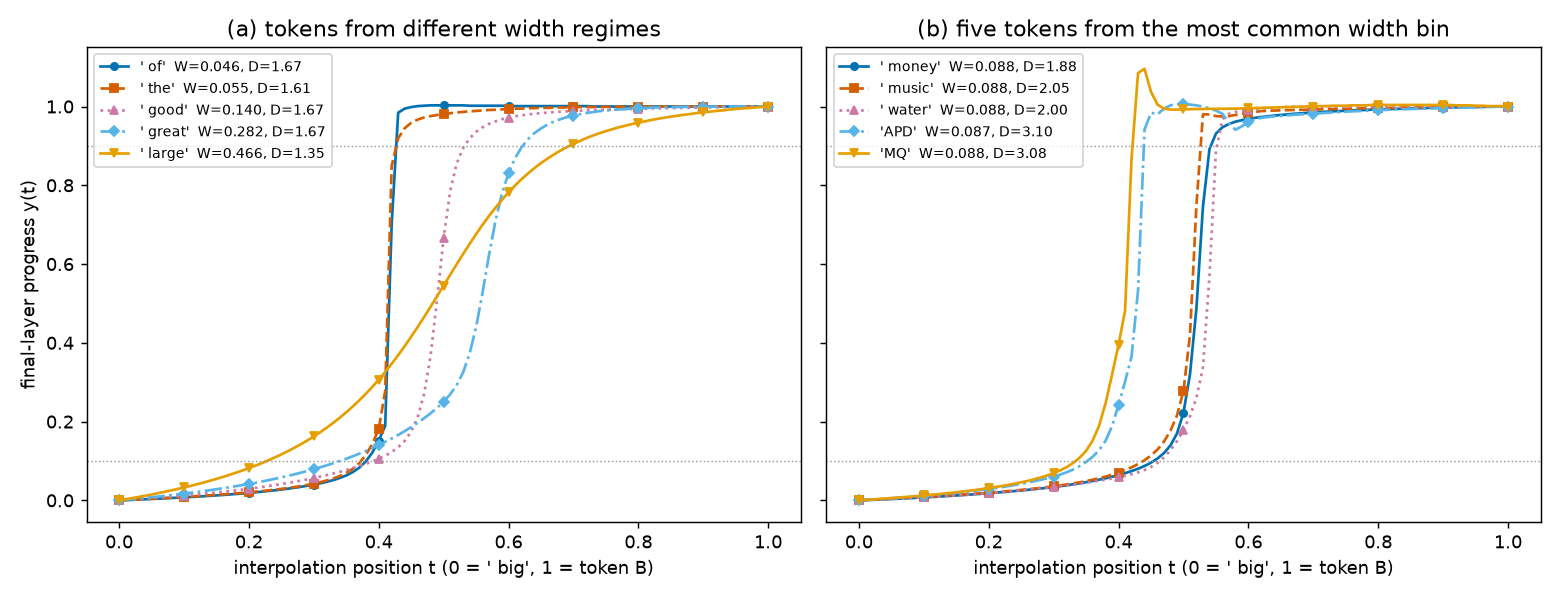
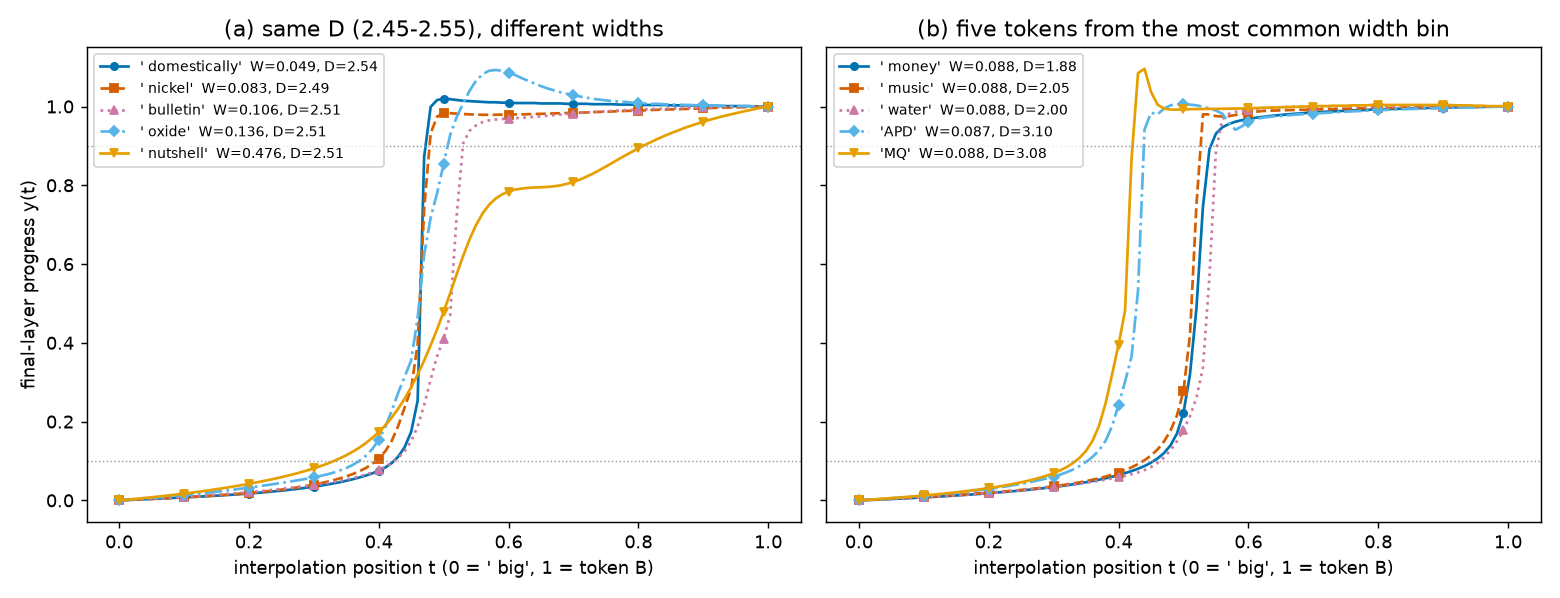
[dir27_interp_dist_vs_plateau_width] autoloop iter 2026-09-23 04:59:52

Changed region(s): [[0.0615, 0.1204, 0.4923, 0.8428], [0.0923, 0.0903, 0.2462, 0.2709], [0.1231, 0.0301, 0.4308, 0.0602]]

diff --git a/dir27_interp_dist_vs_plateau_width/experiments/s5_curves.py b/dir27_interp_dist_vs_plateau_width/experiments/s5_curves.py
@@ -22,8 +22,9 @@ def main():
     D = np.concatenate([s["D"] for s in sh])
     pos = {tok.decode([int(i)]): k for k, i in enumerate(ids)}
 
-    # (a) one common word per width regime; (b) five tokens from the modal histogram bin
-    regime = [" of", " the", " good", " great", " large"]
+    # (a) five words with D in [2.45, 2.55] (vocabulary median D = 2.51) nearest the min, 25th, 50th, 75th
+    # percentile and max of W_final within that band; (b) five tokens from the modal histogram bin
+    regime = [" domestically", " nickel", " bulletin", " oxide", " nutshell"]
     hist, edges = np.histogram(Wf, bins=200)
     b = hist.argmax()
     lo, hi = edges[b], edges[b + 1]
@@ -36,7 +37,7 @@ def main():
     print(f"modal bin [{lo:.4f},{hi:.4f}) n={hist[b]}; modal examples {modal}")
 
     fig, axes = plt.subplots(1, 2, figsize=(12, 4.6), sharey=True)
-    for ax, words, title in ((axes[0], regime, "(a) tokens from different width regimes"),
+    for ax, words, title in ((axes[0], regime, "(a) same D (2.45-2.55), different widths"),
                              (axes[1], modal, "(b) five tokens from the most common width bin")):
         for j, w in enumerate(words):
             k = pos[w]
@@ -55,5 +56,17 @@ def main():
     plt.close(fig)
 
 
+def ge_large():
+    """All tokens whose final-layer width is at least that of B = ' large'."""
+    import pandas as pd
+    d = pd.read_csv(os.path.join(RESULTS, "sweep.csv"), keep_default_na=False)
+    w_large = d.loc[d.token == repr(" large"), "W_final"].item()
+    out = d[d.W_final >= w_large].sort_values("W_final", ascending=False)
+    out = out[["token_id", "token", "D", "W_mid", "W_final", "flag_nonmonotonic"]]
+    out.to_csv(os.path.join(RESULTS, "tokens_W_final_ge_large.csv"), index=False)
+    print(f"W_final(' large')={w_large}; {len(out)} tokens (incl. ' large') with W_final >= it")
+
+
 if __name__ == "__main__":
     main()
+    ge_large()

diff --git a/dir27_interp_dist_vs_plateau_width/REPORT.md b/dir27_interp_dist_vs_plateau_width/REPORT.md
@@ -15,10 +15,11 @@ those shapes would say little about how the model processes the tokens.
 
 **Answer.** We tested all 50,256 other tokens.
 - **Distance.** Input distance does not visibly predict switch width for 97% of tokens (Figure 1).
-  Five common words at nearly the same distance range from an almost vertical jump to a slow ramp
-  (Figure 4a).
-- **Where the widest switches are.** They occur mainly for size words such as ` huge`, ` giant` and
-  ` large`, and for rarely seen, oddly formed tokens.
+  Five words at the typical distance (D 2.49–2.54, around the vocabulary median 2.51) range from an
+  almost vertical jump to a slow ramp (Figure 4a).
+- **Where the widest switches are.** 52 tokens switch at least as slowly as ` big` → ` large` at
+  the final layer. They are mainly size words such as ` huge`, ` giant` and ` vast`, and rarely
+  seen, oddly formed tokens.
 - **Depth.** The final layer switches more sharply than the middle layer for 97.7% of tokens.
 - **Groups.** Final-layer widths form one broad peak with a long tail (Figure 3). The one tight
   group is 64 rarely seen tokens (byte-level characters and scraped fragments such as
@@ -119,14 +120,24 @@ fixed D stays much larger than any change across D.
   with D > 4.
 - At a fixed D, widths spread over most of the range.
 
-Figure 4a shows that spread with five common words. Their D lies between 1.35 and 1.67, yet W_final
-runs from 0.046 (` of`) to 0.466 (` large`).
+Figure 4a shows that spread at the typical distance. Among the 8,307 tokens with D in 2.45–2.55, we
+took the words closest to the minimum, 25th, 50th and 75th percentile, and maximum of W_final in that
+band. All five have D between 2.49 and 2.54, yet W_final runs from 0.049 (` domestically`) to 0.476
+(` nutshell`). Within this band the middle half of widths lies between 0.083 and 0.136.
 
 The widest switches are not the farthest tokens. The 100 widest final-layer tokens have median D 2.43,
 slightly below the vocabulary median of 2.51. They are mostly size words (` huge` has the smallest D of
 any token, 1.22, and W_final 0.56) and rarely seen, oddly formed tokens such as ` guiName` and
 `Downloadha` (RESULTS.md, S4). This is an observation from one prompt; we did not test why these
 tokens switch slowly.
+
+We also listed every token whose final-layer width is at least that of B = ` large` (W_final 0.466):
+52 other tokens, 0.1% of the vocabulary (full list in `results/tokens_W_final_ge_large.csv`). By our
+reading, 27 are size or amount words (` whopping`, ` HUGE`, ` giant`, ` tremendous`, ` huge`,
+` enormous`, ` vast`, ` substantial`, …), 21 are code-like or scraped strings (` guiName`,
+`Downloadha`, `SourceFile`, `TPPStreamerBot`, …), and 4 are other words (` nutshell`, ` manageable`,
+` solvent`, ` abound`). Their D spans 1.22–3.17, covering most of the vocabulary's range, so a wide
+switch does not require a particular distance (RESULTS.md, S4).
 
 ### Finding 2 — The final layer switches more sharply than the middle layer
 
@@ -167,10 +178,13 @@ To check that W reflects visibly different curve shapes, we plot some final-laye
 
 **Figure 4.** Final-layer progress y(t). x: interpolation position t (0 = ` big`, 1 = token B); y:
 y(t). Dotted lines mark 0.1 and 0.9; line style and marker identify each token, and the legend gives
-its W_final and D. (a) Five common words with similar D but very different widths. (b) Five tokens
+its W_final and D. (a) Five words with D in 2.45–2.55 (vocabulary median 2.51), chosen nearest the minimum, quartiles
+and maximum of W_final within that band. (b) Five tokens
 from the most common histogram bin (W_final 0.087–0.090).
 
-In panel (a), small W is a near-vertical jump (` of`, ` the`) and large W is a slow ramp (` large`).
+In panel (a), small W is a near-vertical jump (` domestically`, ` nickel`) and large W is a slow ramp
+with an intermediate shoulder (` nutshell`). Most tokens in the band look like the middle three
+curves.
 In panel (b), tokens with the same W have the same steep shape but switch at different points, from
 about t = 0.40 to 0.53. `MQ` briefly overshoots y = 1 and is one of the flagged curves.
 

diff --git a/dir27_interp_dist_vs_plateau_width/RESULTS.md b/dir27_interp_dist_vs_plateau_width/RESULTS.md
@@ -104,17 +104,38 @@ The 40 widest tokens mix two kinds:
 
 The median D of the 100 widest tokens is 2.43, close to the vocabulary median of 2.51.
 
+**Tokens at least as wide as ` big` → ` large`.** B = ` large` has W_final 0.4659. 52 other tokens
+(53 including ` large`, 0.1% of the vocabulary) have W_final ≥ 0.4659; all are listed with D, W_mid,
+W_final and the irregular-curve flag in `results/tokens_W_final_ge_large.csv` (sorted by W_final,
+written by `experiments/s5_curves.py`). None of the 53 is flagged. Our hand grouping of the 52:
+- 27 size or amount words: ` whopping`, ` HUGE`, ` giant`, ` considerable`, ` tremendous`, ` huge`,
+  `hemoth`, `UGE`, ` oversized`, ` towering`, ` monumental`, ` substantial`, ` ample`, `uge`,
+  ` sizeable`, ` sizable`, ` enorm`, ` sprawling`, ` hefty`, `idespread`, ` spacious`, ` gigantic`,
+  ` vast`, ` enormous`, ` monstrous`, `stantial`, ` innumerable`;
+- 21 code-like, scraped or rare strings: `fty` (the widest, 0.650), ` guiName`, `Downloadha`, one
+  partial multi-byte character, `soType`, `SourceFile`, `MpServer`, ` externalToEVAOnly`,
+  ` guiActiveUnfocused`, `TPPStreamerBot`, ` TheNitromeFan`, `thora`, `ItemTracker`,
+  `rawdownloadcloneembedreportprint`, `auld`, ` Tradable`, `ゼウス`, `SpaceEngineers`, `idable`,
+  ` partName`, `uxe`;
+- 4 other words: ` abound`, ` nutshell`, ` manageable`, ` solvent`.
+
+Their D ranges from 1.22 (` huge`) to 3.17 (median 2.44). The size words sit at D ≈ 1.2–2.5 and the
+rare strings at D ≈ 2.3–3.2. At block 18, 27 other tokens have W_mid ≥ W_mid(` large`) = 0.5034.
+
 ## S5 — Representative curves
 
 ![Representative curves](plots/fig3_representative_curves.png)
 
 **Figure 5.** Final-layer y(t) curves. x: interpolation position t; y: y(t). Dotted lines mark 0.1 and
-0.9. (a) Five common words with nearly the same D (1.35–1.67) but W_final from 0.046 to 0.466. (b) Five
+0.9. (a) Five words with D in 2.45–2.55 (around the vocabulary median 2.51), chosen nearest the minimum,
+25th, 50th and 75th percentile, and maximum of W_final among the 8,307 tokens in that band: W_final
+0.049 (` domestically`), 0.083 (` nickel`), 0.106 (` bulletin`), 0.136 (` oxide`), 0.476 (` nutshell`). (b) Five
 tokens from the most common width bin (W_final 0.087–0.090). Each token has its own line style and
 marker.
 
-In panel (a), the measured widths match the curves: ` of` and ` the` jump almost vertically, and
-` large` rises gradually. In panel (b), all five tokens have the same steep shape, but they cross at
+In panel (a), the measured widths match the curves: ` domestically` and ` nickel` jump almost
+vertically, ` oxide` overshoots y = 1 briefly after its jump, and ` nutshell` rises gradually with a
+shoulder near y ≈ 0.8. Within the band, the middle half of W_final lies between 0.083 and 0.136. In panel (b), all five tokens have the same steep shape, but they cross at
 different t, from about 0.40 to 0.53. `MQ` overshoots to y ≈ 1.1 and is flagged.
 
 ## Headline

diff --git a/dir27_interp_dist_vs_plateau_width/JOURNAL.md b/dir27_interp_dist_vs_plateau_width/JOURNAL.md
@@ -71,3 +71,12 @@ On track? yes — S1 done, S2 running (~25% of plan), no blocker.
 - Zoom holds 50,164/50,256 tokens (excluded: 9 with D<1.6, 19 with 3.3<D<4, 64 at D≈5.17). The core shows no
   clear slope at either layer, consistent with Finding 1. Embedded in REPORT.md (Fig 2) and RESULTS.md (Fig 3);
   check_render passes. Manifest -> review_pending.
+
+## 2026-09-23 — feedback 2: Figure 3(a) examples at D≈2.5, tokens with W ≥ W(' large')
+- Interpreted "Figure 3 left panel" as fig3_representative_curves panel (a) (manifest routing notes); "w" as
+  W_final (the width the figure reports). Rejected alternative: block-18 width — given as one sentence in RESULTS.
+- Panel (a) selection rule: among D∈[2.45,2.55] (8,307 tokens), whole-word tokens (regex ` [a-z]{4,}`) nearest
+  the min/Q1/median/Q3/max of W_final in the band; picked unflagged ones by hand from the 4 nearest.
+- `s5_curves.py` now also writes results/tokens_W_final_ge_large.csv (`ge_large()`); 53 rows incl. ' large'.
+  Category grouping (27 size / 21 code-like / 4 other) is my hand reading, not an automatic classifier.
+- Verified sha256 of sweep.csv and fig1/fig1_zoom/fig2/s1 unchanged; check_render passes.

diff --git a/dir27_interp_dist_vs_plateau_width/CHANGELOG.md b/dir27_interp_dist_vs_plateau_width/CHANGELOG.md
@@ -19,3 +19,13 @@ RESULTS.md and every REPORT*.md stay current-best with no history.
   min–max W of tokens in that range (block 18: 0.065–0.627; block 35: 0.021–0.650); 50,164 tokens.
 - REPORT.md: new Figure 2 after Figure 1 in Finding 1; old Figures 2, 3 renumbered to 3, 4.
 - RESULTS.md: new Figure 3 after the D-vs-W figure; old Figures 3, 4 renumbered to 4, 5.
+
+## 2026-09-23 — human_feedback_2: representative-D examples and widest-token list
+- `plots/fig3_representative_curves.png` panel (a): replaced ` of`, ` the`, ` good`, ` great`, ` large`
+  (D 1.35–1.67, W_final 0.046–0.466) with ` domestically`, ` nickel`, ` bulletin`, ` oxide`, ` nutshell`
+  (D 2.49–2.54, W_final 0.049–0.476), chosen nearest the min/quartiles/max of W_final among the 8,307 tokens
+  with D in 2.45–2.55. Panel (b) unchanged. REPORT.md (Summary, Finding 1, Figure 4 caption/text) and
+  RESULTS.md (Figure 5 caption/text) updated to match.
+- New `results/tokens_W_final_ge_large.csv`: 53 tokens (incl. ` large`) with W_final ≥ 0.4659. Summarized in
+  RESULTS.md S4 (27 size words / 21 code-like strings / 4 other; block-18 count 27) and one paragraph in
+  REPORT.md Finding 1.

diff --git a/dir27_interp_dist_vs_plateau_width/PLAN.md b/dir27_interp_dist_vs_plateau_width/PLAN.md
@@ -238,6 +238,8 @@ Do not replace the basic experiment with a more complicated analysis.
 COMPLETE. All stages S1–S5 done; success criterion met. 50,256 tokens in `results/sweep.csv`;
 Figures in `plots/fig1_distance_vs_width.png`, `plots/fig2_final_width_distribution.png`,
 `plots/fig3_representative_curves.png`; REPORT.md and RESULTS.md written, render checks pass.
+Feedback 2 (2026-09-23): Figure 3(a) examples now at D≈2.5; tokens with W_final ≥ W(' large') listed in
+`results/tokens_W_final_ge_large.csv`.
 Answer: D does not visibly predict W in the bulk; final layer sharper than block 18; W_final is one
 broad peak with a tail, the only tight group being 64 rarely seen tokens at D≈5.17, W≈0.33.
 
